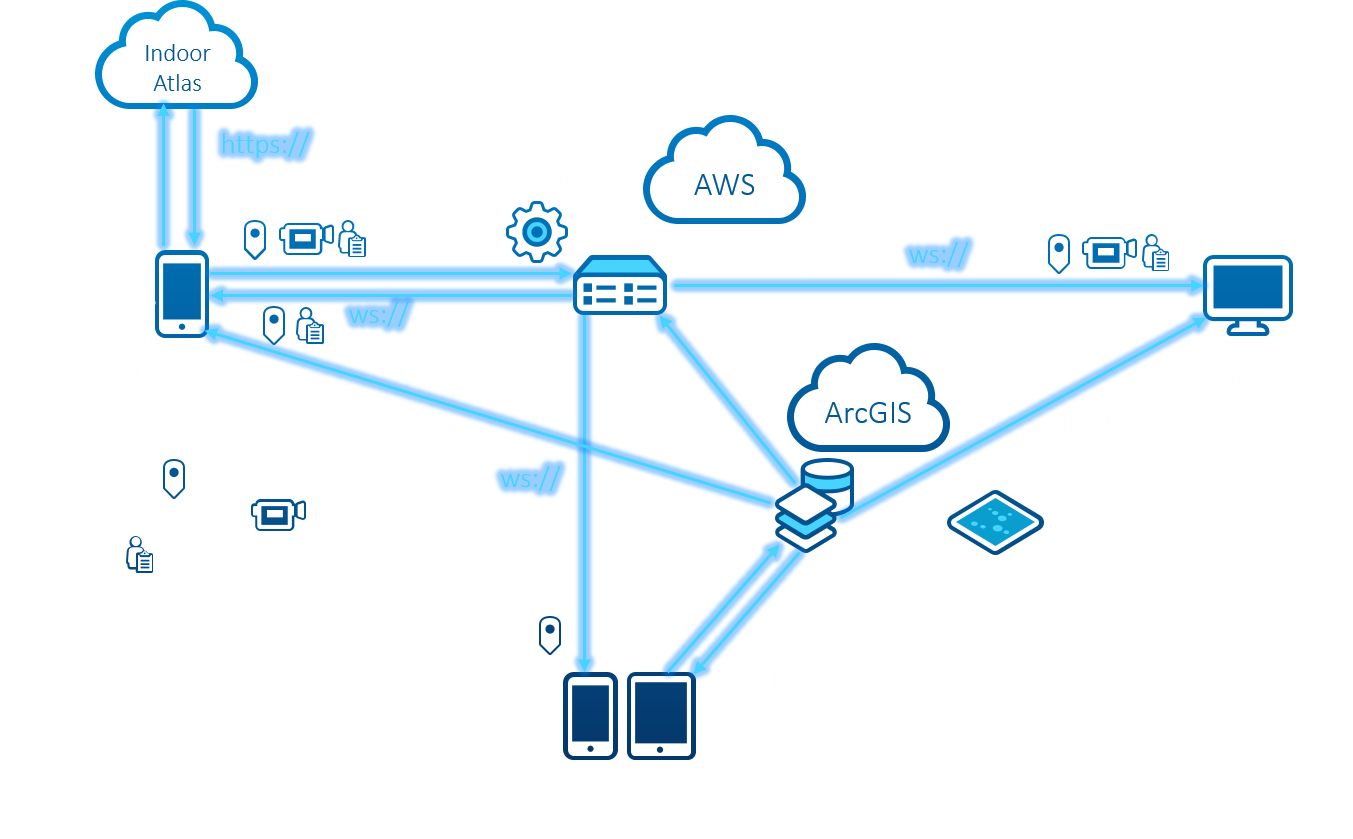
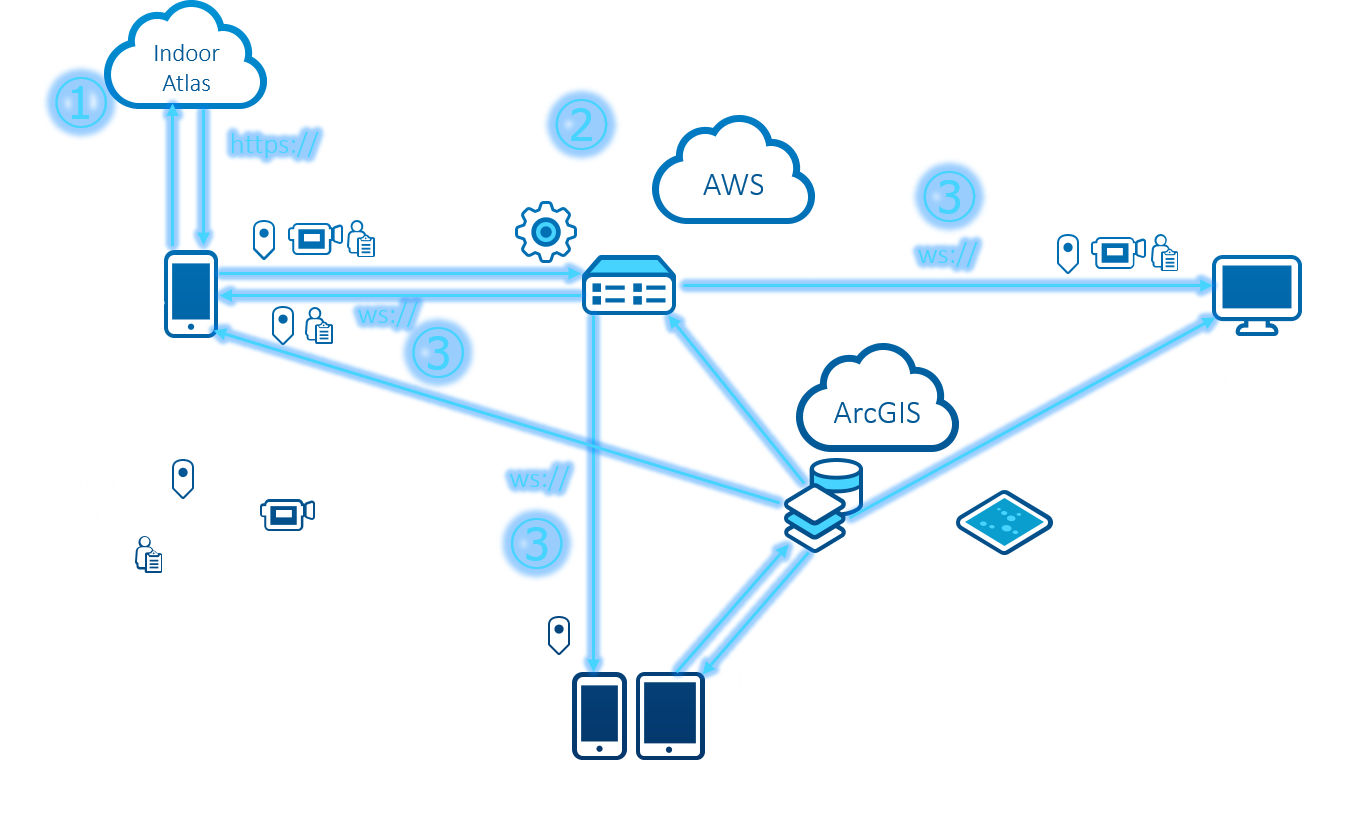
add an image for WebSocket

diff --git a/2017-gcf/arcgis-developer-session/presentation.md b/2017-gcf/arcgis-developer-session/presentation.md
@@ -149,10 +149,11 @@ BREAK も毎年趣向を凝らしたデモを披露してます！
 
 - ルール
   - ３チームに分かれます
-  - チームごとの代表者 (有志) がプレイヤーになります
+  - チームごとの代表者（有志）がプレイヤーになります
+  - プレイヤーは共用廊下を歩きまわってもらいます
   - プレイヤー以外の参加者はサポーターになります
-  - プレイヤーは室内での歩行距離 = スコアを稼ぎます
-  - サポーターはジオフェンスを打ち込んで他チームのプレイヤーのジャマをします
+  - サポーターはジオフェンスを打ち込みまくってください（※3 秒に 1 回制限）
+  - プレイヤーは自チームのサポーターが作ったジオフェンスに入ると加点されます
   - プレイヤーは他チームのサポーターが作ったジオフェンスに入ると減点されます
 
 ---
@@ -172,6 +173,8 @@ BREAK も毎年趣向を凝らしたデモを披露してます！
 ## 要素技術③：リアルタイム送受信
 
 - WebSocket (`ws://`)
+
+<img src="images/websocket.png" alt="WebSocket" style="max-height:600px;">
 
 ---
 
